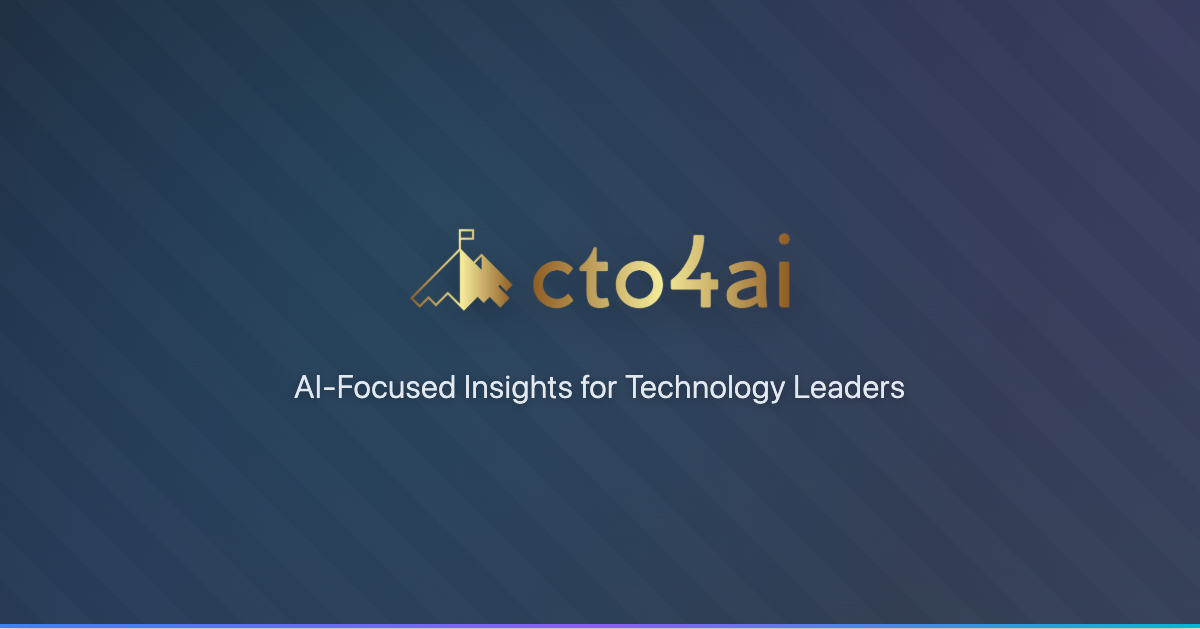
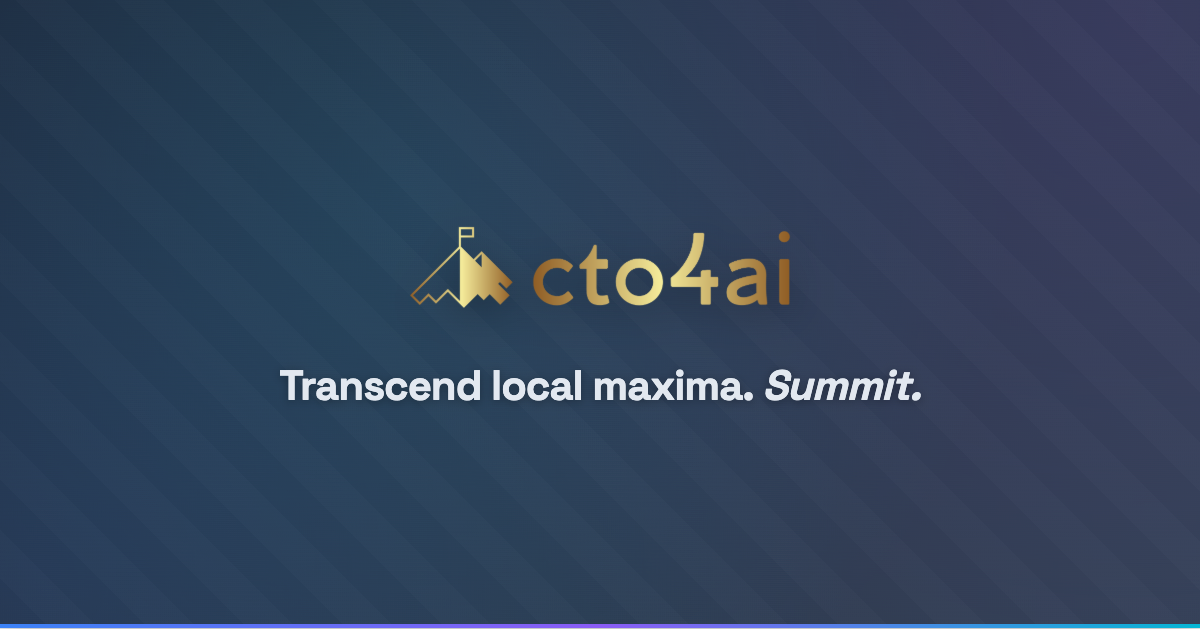
Update OG image with correct tagline and branding
- Changed tagline to 'Transcend local maxima. Summit.'
- Used Space Grotesk font to match site branding
- Made 'Summit' italic with heavier weight (900)
- Matches the styling used on subscribe pages

Changed region(s): [[0.2158, 0.5739, 0.7708, 0.6645], [0.3392, 0.3927, 0.6475, 0.5135], [0.37, 0.3625, 0.4008, 0.4229]]

diff --git a/scripts/generate-og-image.html b/scripts/generate-og-image.html
@@ -4,6 +4,9 @@
     <meta charset="UTF-8">
     <meta name="viewport" content="width=device-width, initial-scale=1.0">
     <title>CTO4.AI OG Image Generator</title>
+    <link rel="preconnect" href="https://fonts.googleapis.com">
+    <link rel="preconnect" href="https://fonts.gstatic.com" crossorigin>
+    <link href="https://fonts.googleapis.com/css2?family=Space+Grotesk:wght@300..700&display=swap" rel="stylesheet">
     <style>
         body {
             margin: 0;
@@ -64,14 +67,20 @@
         
         .tagline {
             color: #e2e8f0;
-            font-size: 32px;
-            font-weight: 300;
+            font-size: 42px;
+            font-weight: 700;
             text-align: center;
             z-index: 1;
-            letter-spacing: 0.5px;
+            letter-spacing: -0.025em;
             max-width: 800px;
-            line-height: 1.4;
+            line-height: 1.2;
             text-shadow: 0 2px 10px rgba(0,0,0,0.3);
+            font-family: 'Space Grotesk', ui-sans-serif, system-ui, sans-serif;
+        }
+        
+        .tagline .summit {
+            font-style: italic;
+            font-weight: 900;
         }
         
         .accent {
@@ -170,7 +179,7 @@
                 <img src="../src/assets/images/logos/noBgColor.png" alt="CTO4.AI" class="logo">
             </div>
             <div class="tagline">
-                AI-Focused Insights for Technology Leaders
+                Transcend local maxima. <span class="summit">Summit.</span>
             </div>
             <div class="accent"></div>
         </div>
@@ -181,7 +190,7 @@
                 <img src="../src/assets/images/logos/noBgColor.png" alt="CTO4.AI" class="logo">
             </div>
             <div class="tagline">
-                AI-Focused Insights for Technology Leaders
+                Transcend local maxima. <span class="summit">Summit.</span>
             </div>
             <div class="accent"></div>
         </div>
